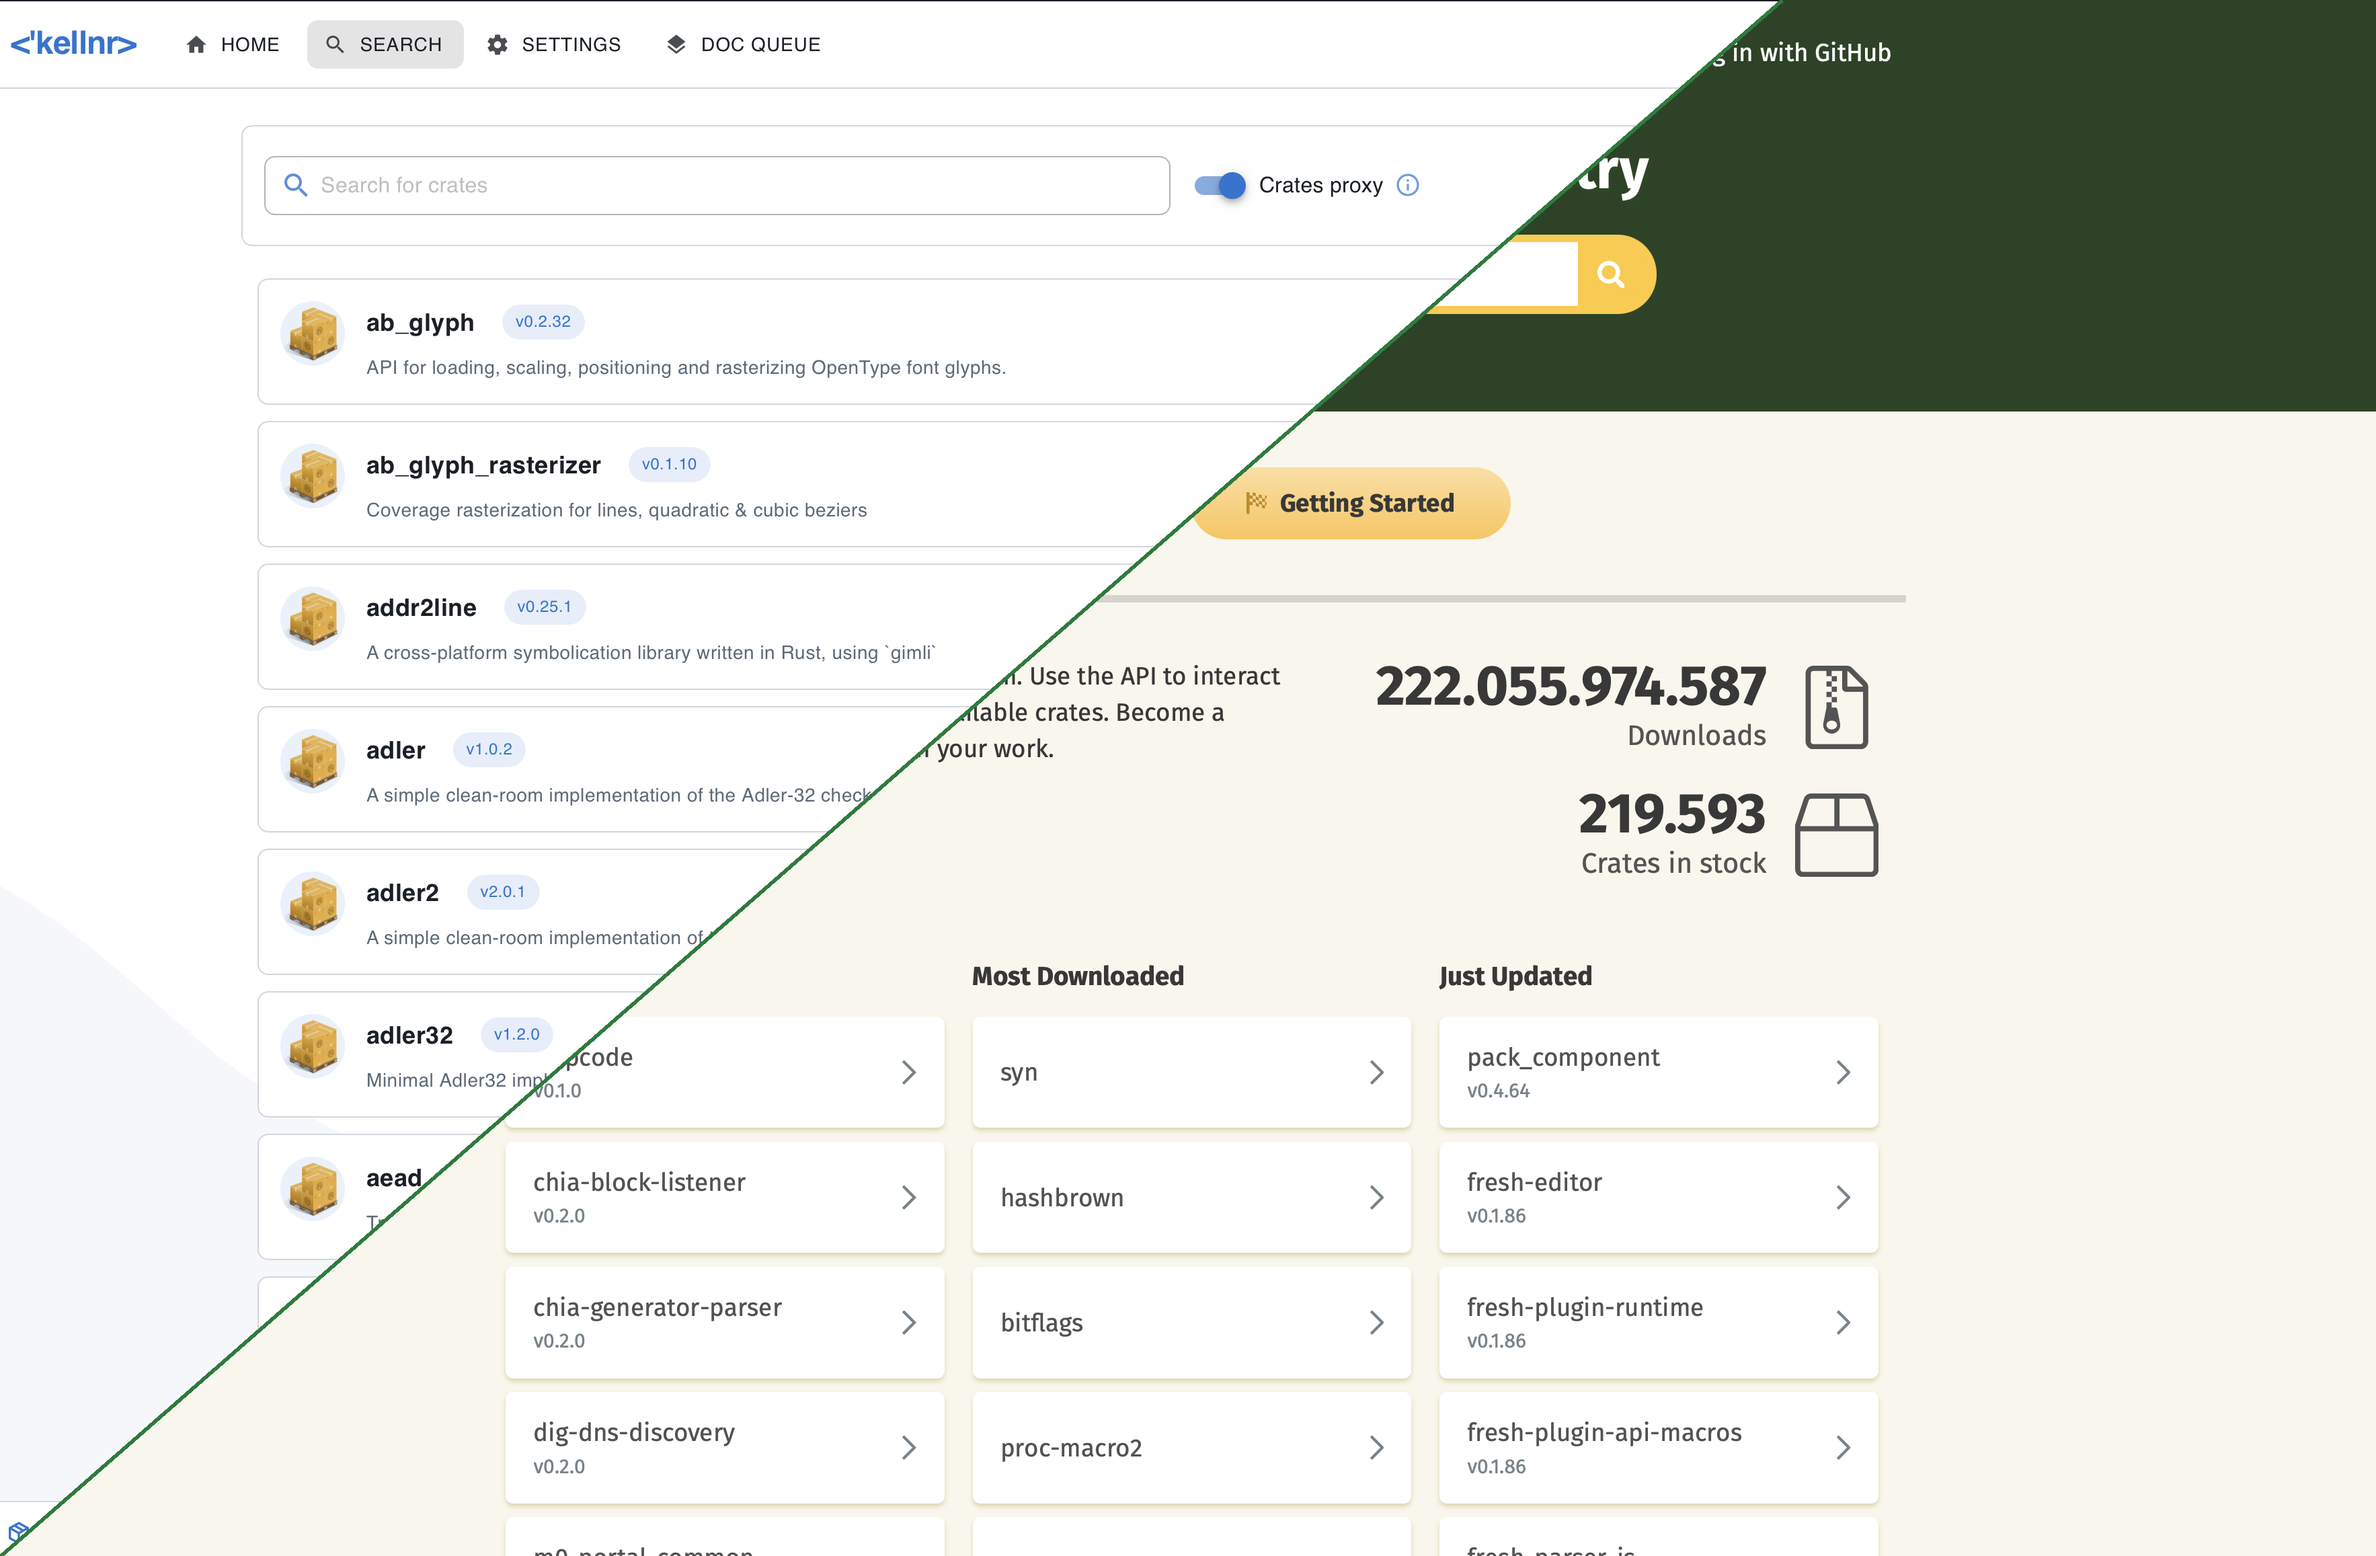
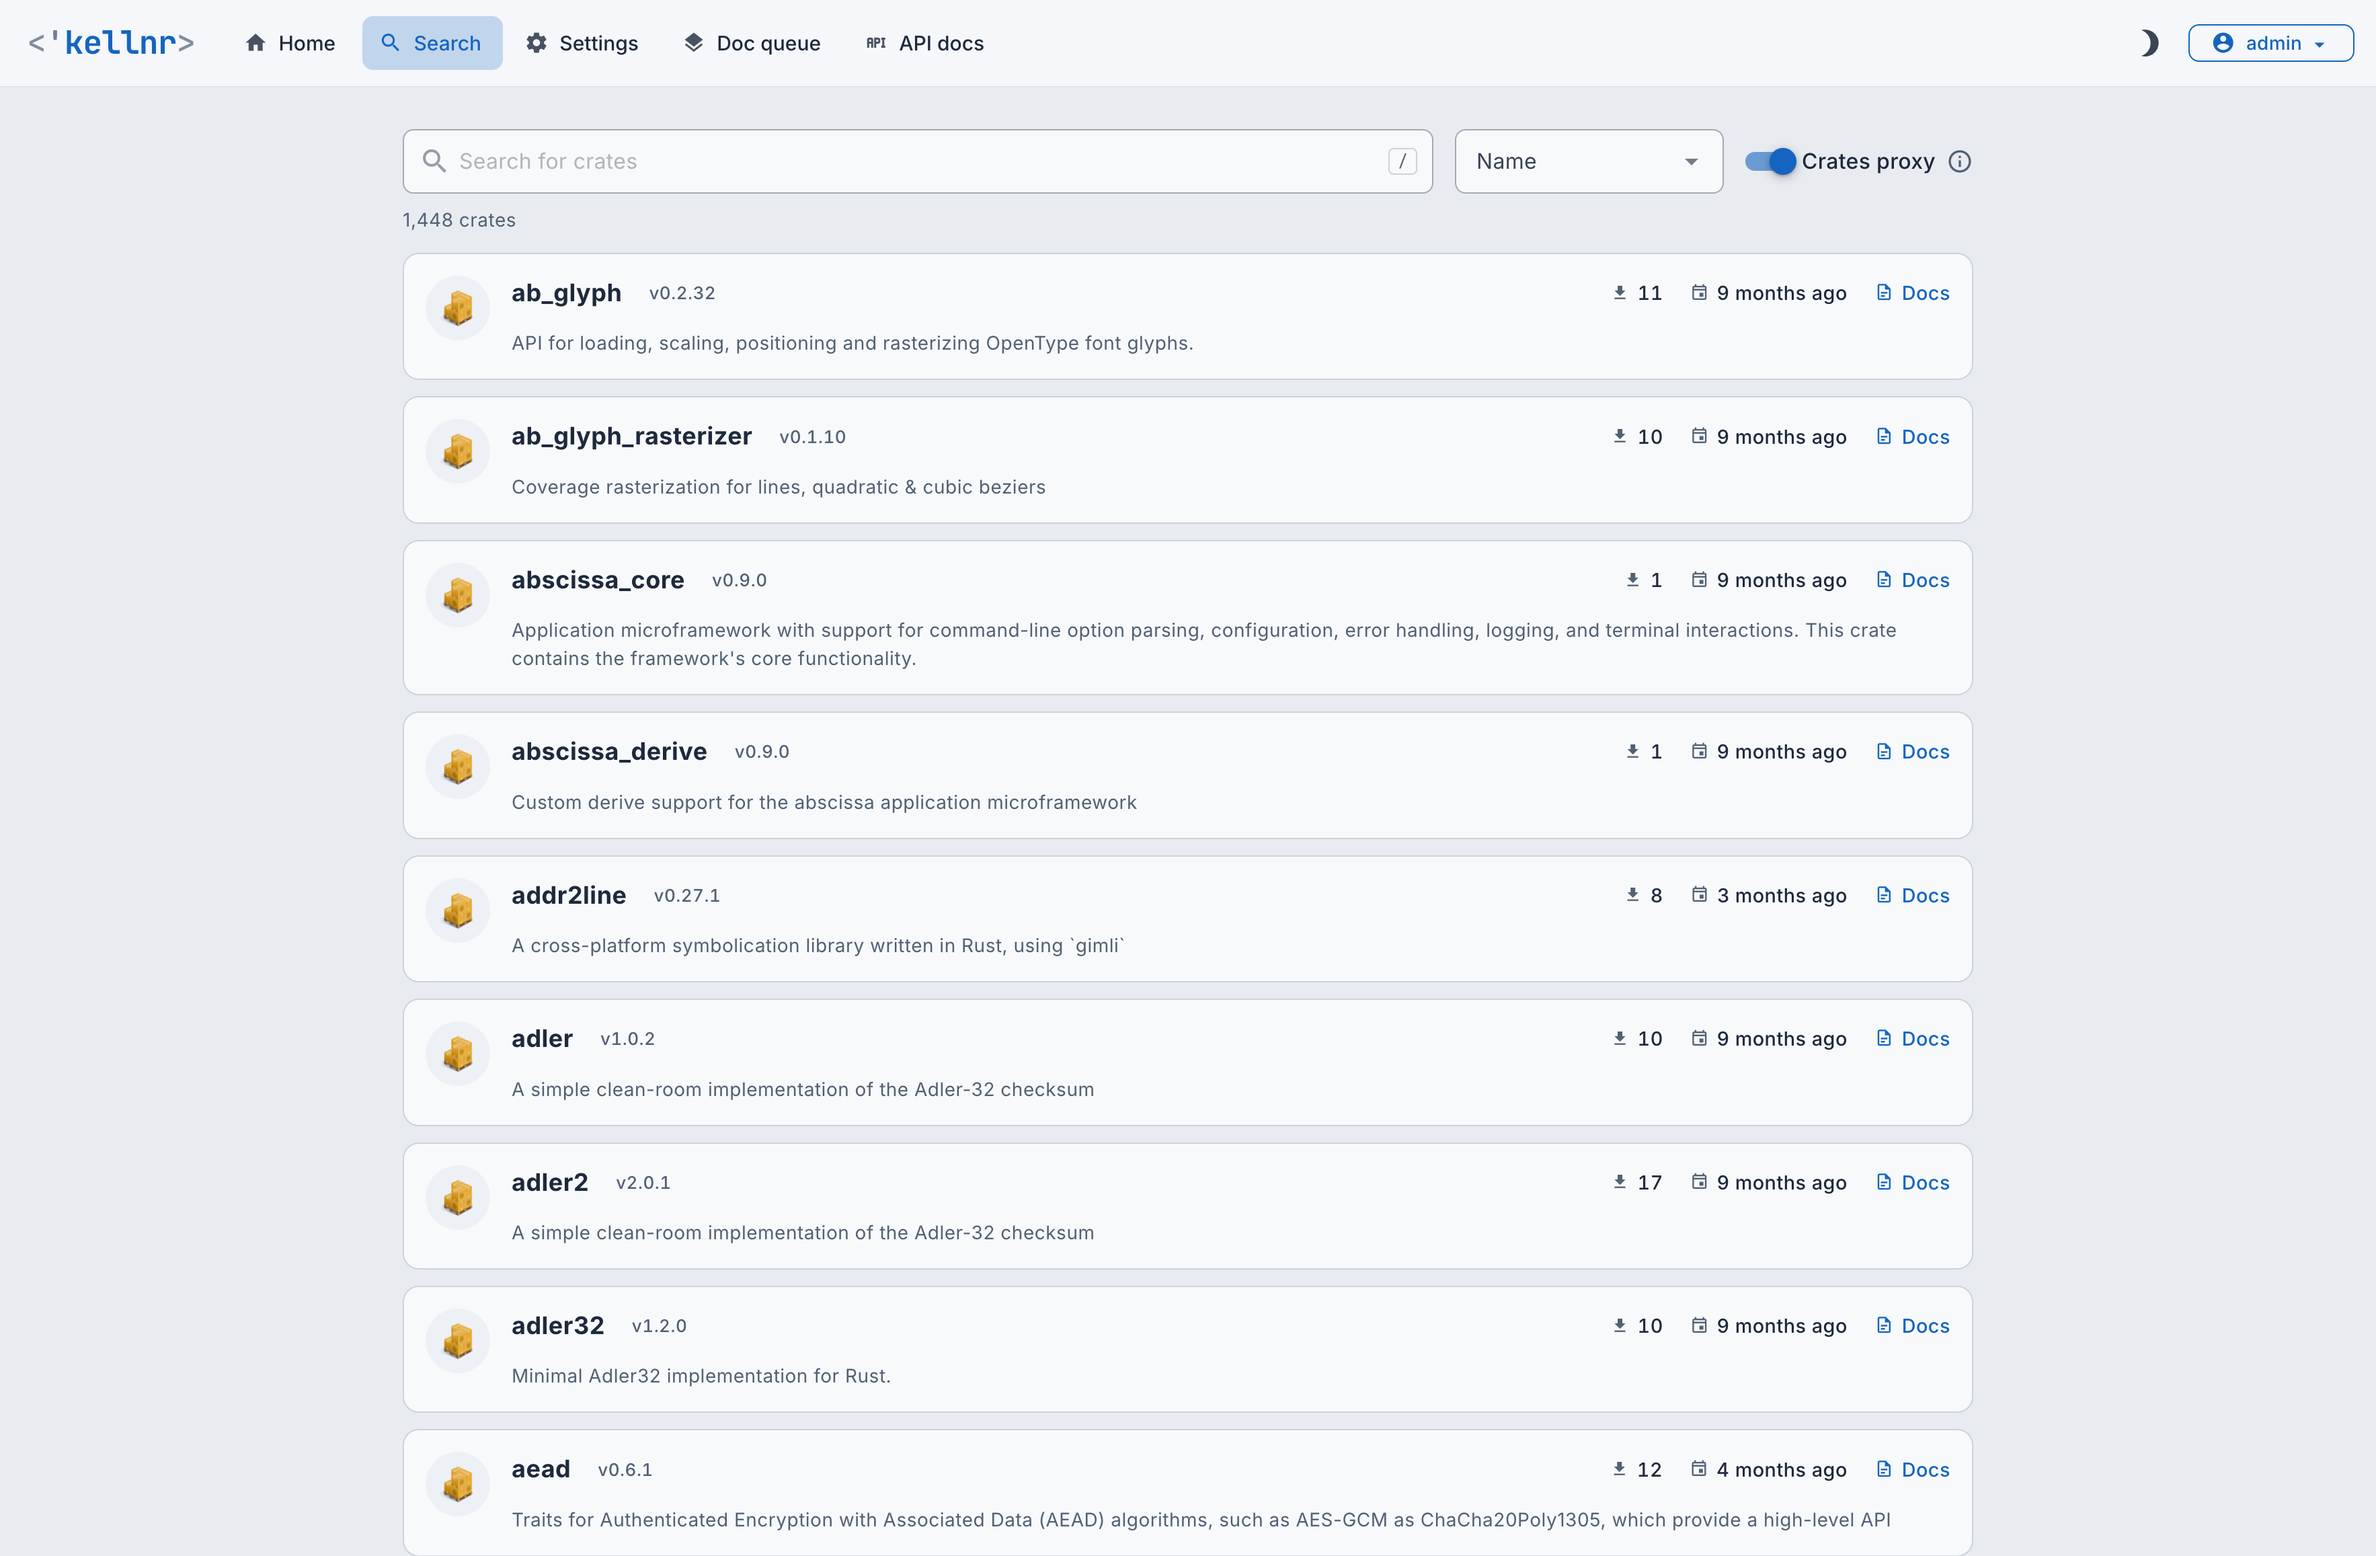
chore: update Kellnr screenshots to v6.12
Replace the v5.12 screenshots on the landing and features pages with
new ones from the current web UI and update the alt texts to match.
The proxy screenshot no longer includes part of the crates.io website.

diff --git a/src/views/FeaturesView.vue b/src/views/FeaturesView.vue
@@ -426,7 +426,7 @@ const sections = [
           <p>A clean, responsive web UI for managing your registry.</p>
         </div>
 
-        <img class="section-shot" width="3534" height="2314" loading="lazy" src="/images/kellnr/dependencies-dark.png" alt="Kellnr web UI in dark mode" />
+        <img class="section-shot" width="3534" height="2314" loading="lazy" src="/images/kellnr/dependencies-dark.png" alt="Crate dependencies in the Kellnr web UI in dark mode" />
 
         <div class="features-grid features-grid-3">
           <div class="feature-card">

diff --git a/src/views/LandingView.vue b/src/views/LandingView.vue
@@ -64,7 +64,7 @@ const highlights = [
             </a>
           </div>
           <div class="hero-image">
-            <img src="/images/kellnr/landing.png" width="3534" height="2314" alt="Kellnr Dashboard" />
+            <img src="/images/kellnr/landing.png" width="3534" height="2314" alt="A crate page in the Kellnr web UI" />
           </div>
         </div>
       </div>
